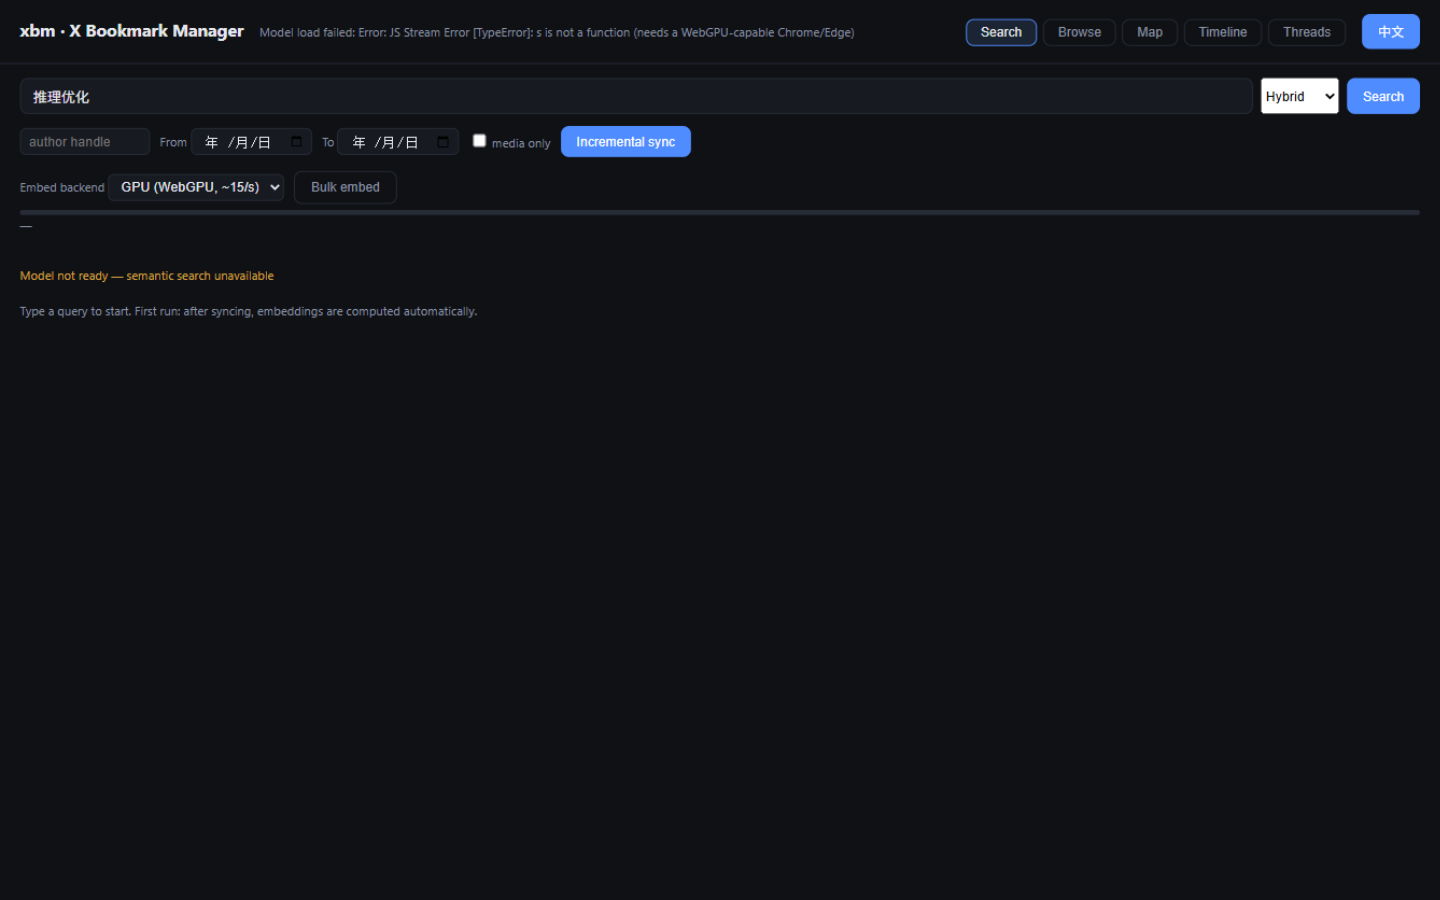
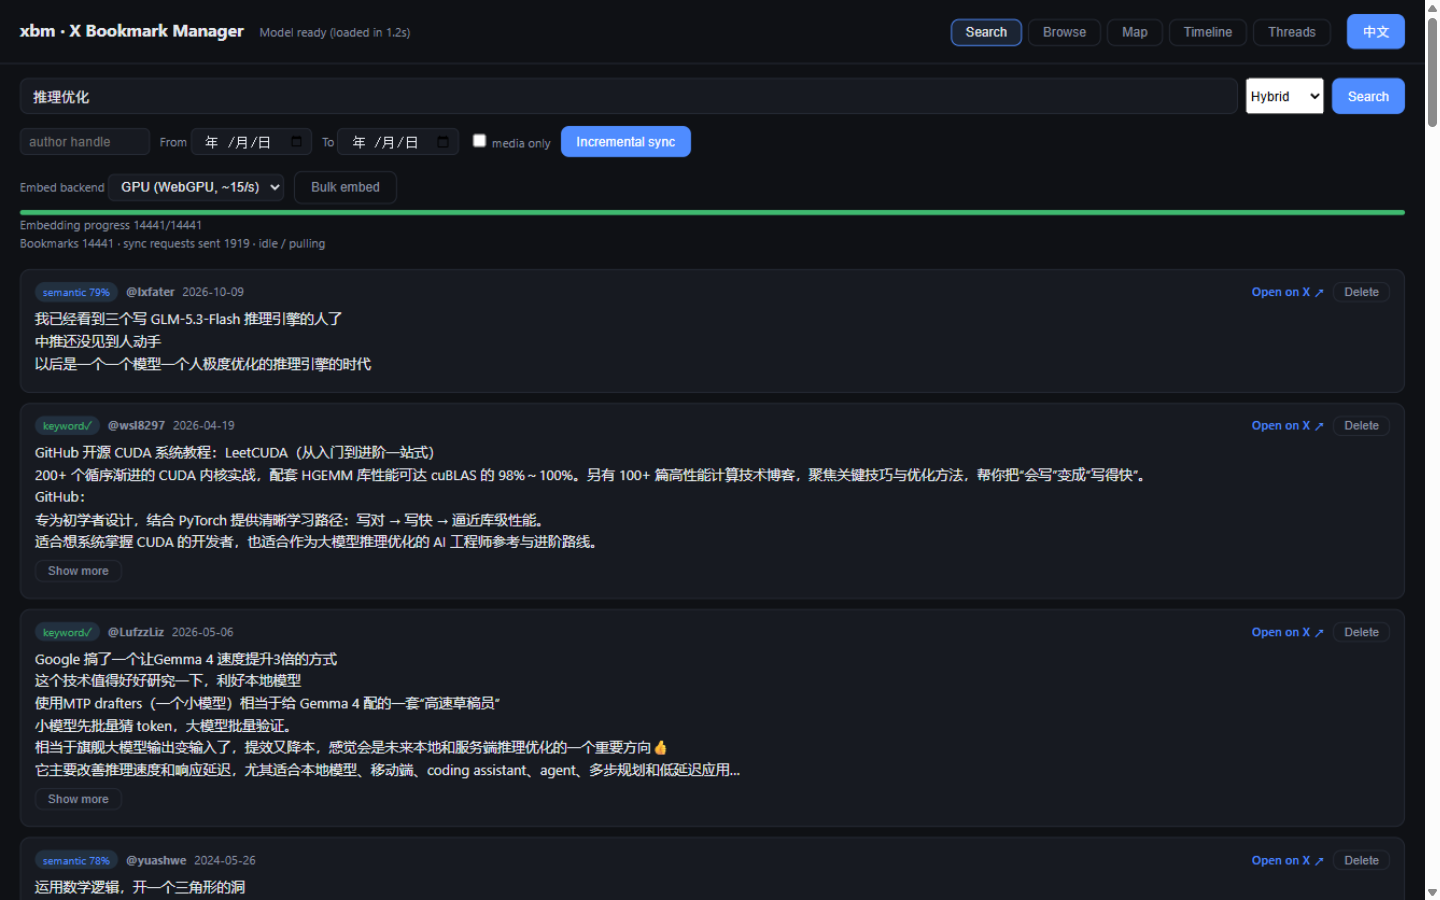
i18n: full EN coverage for dynamic strings; fix t() shadowing + falsy fallback; EN screenshots
- wrap all remaining dynamic strings (status/progress/notes/headers) with t()
- fix two t-shadowing bugs that broke model loading (progress cb param, renderTimeline)
- fix falsy-fallback in t() that leaked zh for empty-string translations
- webapp: mark static edition experimental (WIP by contributor)
- add docs/screenshots-en (7 EN UI screenshots)

diff --git a/web/src/main.js b/web/src/main.js
@@ -74,14 +74,16 @@ async function boot() {
     setStatus(t('boot.modelDL'));
     const resp = await fetch('/model');
     const total = +resp.headers.get('Content-Length') || 0;
-    const stream = trackProgress(resp.body, total, (n, t) =>
-      setStatus(`${t('boot.modelPct')} ${t ? Math.round((n / t) * 100) : Math.round(n / 1048576) + 'MB'}%`));
+    const stream = trackProgress(resp.body, total, (n, tot) =>
+      setStatus(`${t('boot.modelPct')} ${tot ? Math.round((n / tot) * 100) : Math.round(n / 1048576) + 'MB'}%`));
     const t0 = performance.now();
     // 纯文本 270m 模型不能带 vision/audio backend(会去找视觉编码器缓冲区)
     try {
       engine = await EmbeddingEngine.create({ model: stream, backend: Backend.GPU });
     } catch (e) {
       setStatus(`${t('boot.fail')}: ${e} (${t('boot.needWebGPU')})`);
+      if (e && e.stack) console.error('xbm load stack:', e.stack);
+      window.__xbmStack = String(e && e.stack || e);
       return;
     }
     setStatus(`${t('boot.ready')} (${t('boot.loadSec')} ${((performance.now() - t0) / 1000).toFixed(1)}s)`);
@@ -103,9 +105,9 @@ async function refreshStatus() {
       const req = s.twscrape.requests;
       let line = `${t('backfill.total')} ${s.total} · ${t('backfill.reqs')} ${req ?? '?'} ${t('backfill.reqsUnit')}`;
       if (s.twscrape.locked_until) {
-        const t = new Date(s.twscrape.locked_until.replace(' ', 'T') + 'Z');
+        const lockT = new Date(s.twscrape.locked_until.replace(' ', 'T') + 'Z');
         if (t.getTime() > Date.now()) {
-          line += ` · ${t('rate.lockedPre')} ${t.toLocaleTimeString('zh-CN', { hour: '2-digit', minute: '2-digit' })} ${t('rate.lockedPost')}`;
+          line += ` · ${t('rate.lockedPre')} ${lockT.toLocaleTimeString('zh-CN', { hour: '2-digit', minute: '2-digit' })} ${t('rate.lockedPost')}`;
         } else {
           line += ` · ${t('rate.pulling')}`;
         }
@@ -234,8 +236,8 @@ function renderCards(hits, el, opts = {}) {
     const media = (h.media || []).map((m) =>
       `<img src="${m.url}" loading="lazy" onerror="this.remove()" alt="">`).join('');
     const urls = (h.urls || []).slice(0, 8).map((u) => {
-      const t = u.length > 70 ? u.slice(0, 70) + '…' : u;
-      return `<a href="${u}" target="_blank" rel="noreferrer">${t}</a>`;
+      const ut = u.length > 70 ? u.slice(0, 70) + '…' : u;
+      return `<a href="${u}" target="_blank" rel="noreferrer">${ut}</a>`;
     }).join('');
     const long = (h.text || '').length > 220;
     div.innerHTML = `
@@ -453,7 +455,7 @@ async function loadMoreBrowse() {
     if (filterSel.kw != null) parts.push(`${t('hdr.kw')}「${chipLabel['kw:' + filterSel.kw] ?? '#' + filterSel.kw}」`);
     if (filterSel.llm != null) parts.push(`${t('hdr.llm')}「${chipLabel['llm:' + filterSel.llm] ?? '#' + filterSel.llm}」`);
     $('cat-header').innerHTML =
-      `<h3 style="margin-bottom:8px">${parts.join(' ∩ ')} — 共 ${r.total} 条</h3>`;
+      `<h3 style="margin-bottom:8px">${parts.join(' ∩ ')} ${t('browse.total')}${r.total}${t('browse.totalUnit')}</h3>`;
   }
   renderCards(r.hits, $('cat-results'), { withScores: false });
   browseOffset += r.hits.length;
@@ -785,18 +787,18 @@ async function loadTimeline() {
   }
 }
 
-function renderTimeline(t) {
+function renderTimeline(tl) {
   const narr = $('timeline-narrative');
   const box = $('timeline-digest');
   narr.textContent = '';
   box.innerHTML = '';
-  if (!t) return;
-  if (t.narrative) {
-    narr.textContent = t.narrative;
+  if (!tl) return;
+  if (tl.narrative) {
+    narr.textContent = tl.narrative;
   } else {
-    narr.innerHTML = '<span class="muted">(暂无 LLM 叙事——统计见下方原始数据)</span>';
+    narr.innerHTML = `<span class="muted">(${t('timeline.noNarrative')})</span>`;
   }
-  for (const d of t.digest || []) {
+  for (const d of tl.digest || []) {
     const div = document.createElement('div');
     div.className = 'tl-period';
     const cats = (d.cats || []).map(([k, v]) => `${k} ${v}`).join(', ');

diff --git a/web/src/i18n.js b/web/src/i18n.js
@@ -82,6 +82,7 @@ const DICT = {
     'timeline.generating': '生成中', 'timeline.narrating': 'LLM 撰写叙事,可能需要一两分钟',
     'timeline.aggregating': '统计聚合', 'timeline.err': '出错', 'timeline.loadFail': '加载失败',
     'timeline.started': '已启动…', 'timeline.startFail': '启动失败',
+    'timeline.noNarrative': '暂无 LLM 叙事——统计见下方原始数据',
     'threads.genFail': '解读失败', 'threads.loadFail': '加载失败',
     'threads.started': '解读已启动…',
     'th.recent3': '近3月',
@@ -171,6 +172,7 @@ const DICT = {
     'timeline.generating': 'Generating', 'timeline.narrating': 'LLM writing the narrative — may take a minute or two',
     'timeline.aggregating': 'aggregating stats', 'timeline.err': 'Error', 'timeline.loadFail': 'Load failed',
     'timeline.started': 'Started…', 'timeline.startFail': 'start failed',
+    'timeline.noNarrative': 'no LLM narrative yet — see raw stats below',
     'threads.genFail': 'Card generation failed', 'threads.loadFail': 'Load failed',
     'threads.started': 'Card generation started…',
     'th.recent3': '3mo',
@@ -182,7 +184,9 @@ let LANG = localStorage.getItem('xbm_lang')
   || ((navigator.language || 'zh').toLowerCase().startsWith('zh') ? 'zh' : 'en');
 
 export function t(key) {
-  return (DICT[LANG] && DICT[LANG][key]) || DICT.zh[key] || key;
+  const d = DICT[LANG];
+  if (d && key in d) return d[key];
+  return DICT.zh[key] ?? key;
 }
 export function lang() { return LANG; }
 export function setLang(l) {

diff --git a/README_README.md b/README_README.md
@@ -23,7 +23,7 @@ Screenshots below are from a real library (14,441 bookmarks / 12 categories /
 
 ### 1. Search — literal + semantic, fused ranking
 
-![Search view](docs/screenshots/01-search.png)
+![Search view](docs/screenshots-en/01-search.png)
 
 X's native search matches literal strings only. xbm runs **both retrieval paths** and
 fuses the results:
@@ -42,7 +42,7 @@ filters included, plus Hybrid / Semantic / Keyword modes.
 
 ### 2. Browse — three orthogonal dimensions, arbitrary intersections
 
-![Browse view](docs/screenshots/02-categories.png)
+![Browse view](docs/screenshots-en/02-categories.png)
 
 One folder level doesn't scale to thousands of items. xbm slices your library along
 **three independent, non-overlapping dimensions**:
@@ -58,7 +58,7 @@ same topic never lands in the same bucket on both sides. That's the point: an
 intersection means "semantically close **AND** worded alike", which narrows precisely.
 Selecting a category ∩ an LLM cluster below cuts 14,441 items down to **61**:
 
-![Browse intersection](docs/screenshots/02-categories_operation.png)
+![Browse intersection](docs/screenshots-en/02-categories_operation.png)
 
 Every narrowing step has an explicit justification and is instantly clickable. A single
 tag system can only shrink results; three orthogonal dimensions answer different
@@ -66,7 +66,7 @@ questions, and combining them is real retrieval.
 
 ### 3. Map — a semantic galaxy of 14,386 bookmarks
 
-![Map view](docs/screenshots/03-map.png)
+![Map view](docs/screenshots-en/03-map.png)
 
 UMAP projection (auto-falls back to numpy-PCA without umap-learn) maps every bookmark to
 2D, colored by category / keyword cluster / LLM cluster.
@@ -84,7 +84,7 @@ Folders give you a **list**; the map gives you **structure**:
 
 ### 4. Timeline — how your focus evolved
 
-![Timeline view](docs/screenshots/04-timeline.png)
+![Timeline view](docs/screenshots-en/04-timeline.png)
 
 Per-month/quarter topic stats with an LLM-written **narrative of how your focus
 evolved** (a line or two per period + an overall throughline). Revisiting old
@@ -99,7 +99,7 @@ long ranges are narrated in segments so a single failure can't kill the whole ru
 
 ### 5. Threads — separating "algorithm hype" from "my knowledge assets"
 
-![Threads view](docs/screenshots/05-threads.png)
+![Threads view](docs/screenshots-en/05-threads.png)
 
 The most counter-intuitive view, and the core design.
 
@@ -122,7 +122,7 @@ Above: **dormant threads** (300+), each with a 12-month activity sparkline showi
 once deliberately saved. Below: **persistent threads** (776) — the skeleton of your
 knowledge assets ("Science explainers" active 44 months, "AI dev tools" 33 months).
 
-![Persistent threads](docs/screenshots/06-threads-persistent.png)
+![Persistent threads](docs/screenshots-en/06-threads-persistent.png)
 
 Each thread can optionally get an LLM card: **what it is** and **what's missing next**
 (the deterministic stats never need an LLM).
@@ -240,7 +240,7 @@ web/            server-edition frontend (vite + @litert-lm/core + Python backend
 webapp/         static-edition frontend (OPFS SQLite-WASM + in-browser model + collector)
   src/i18n.js   zh/en UI dictionary
 tests/          unit tests + synthetic archive fixtures
-docs/screenshots/  UI screenshots (from real data)
+docs/screenshots-en/  UI screenshots (from real data)
 ```
 
 ## License
